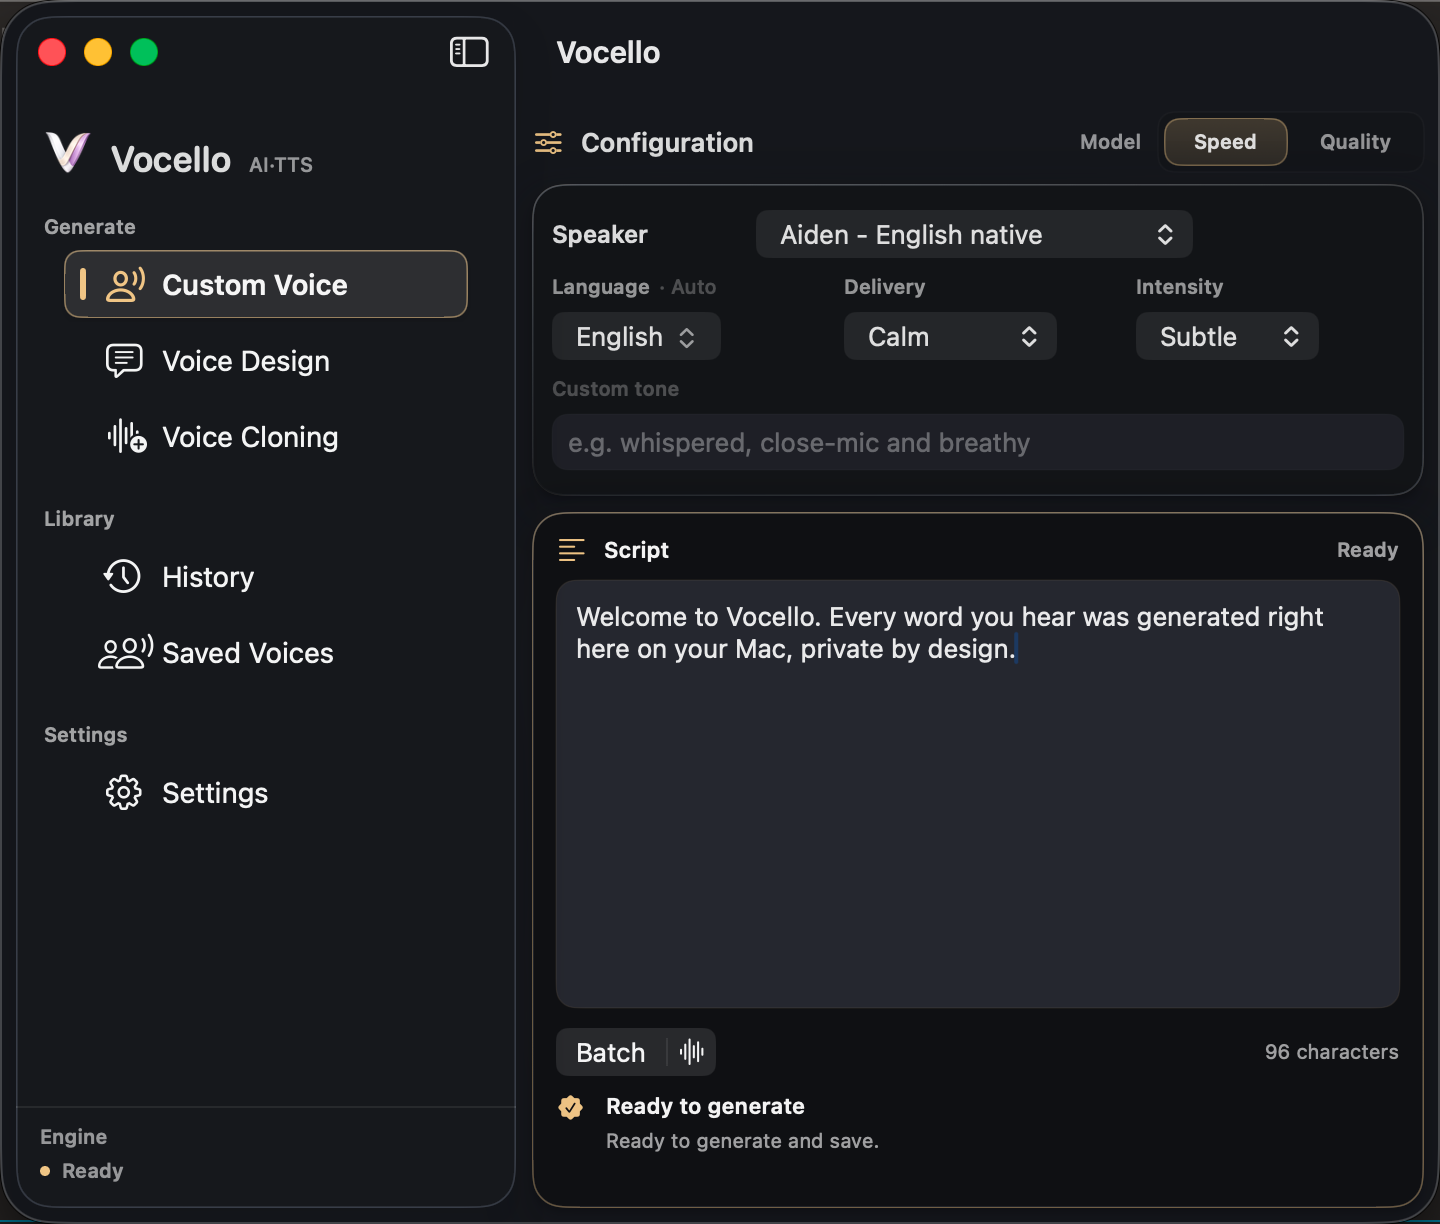
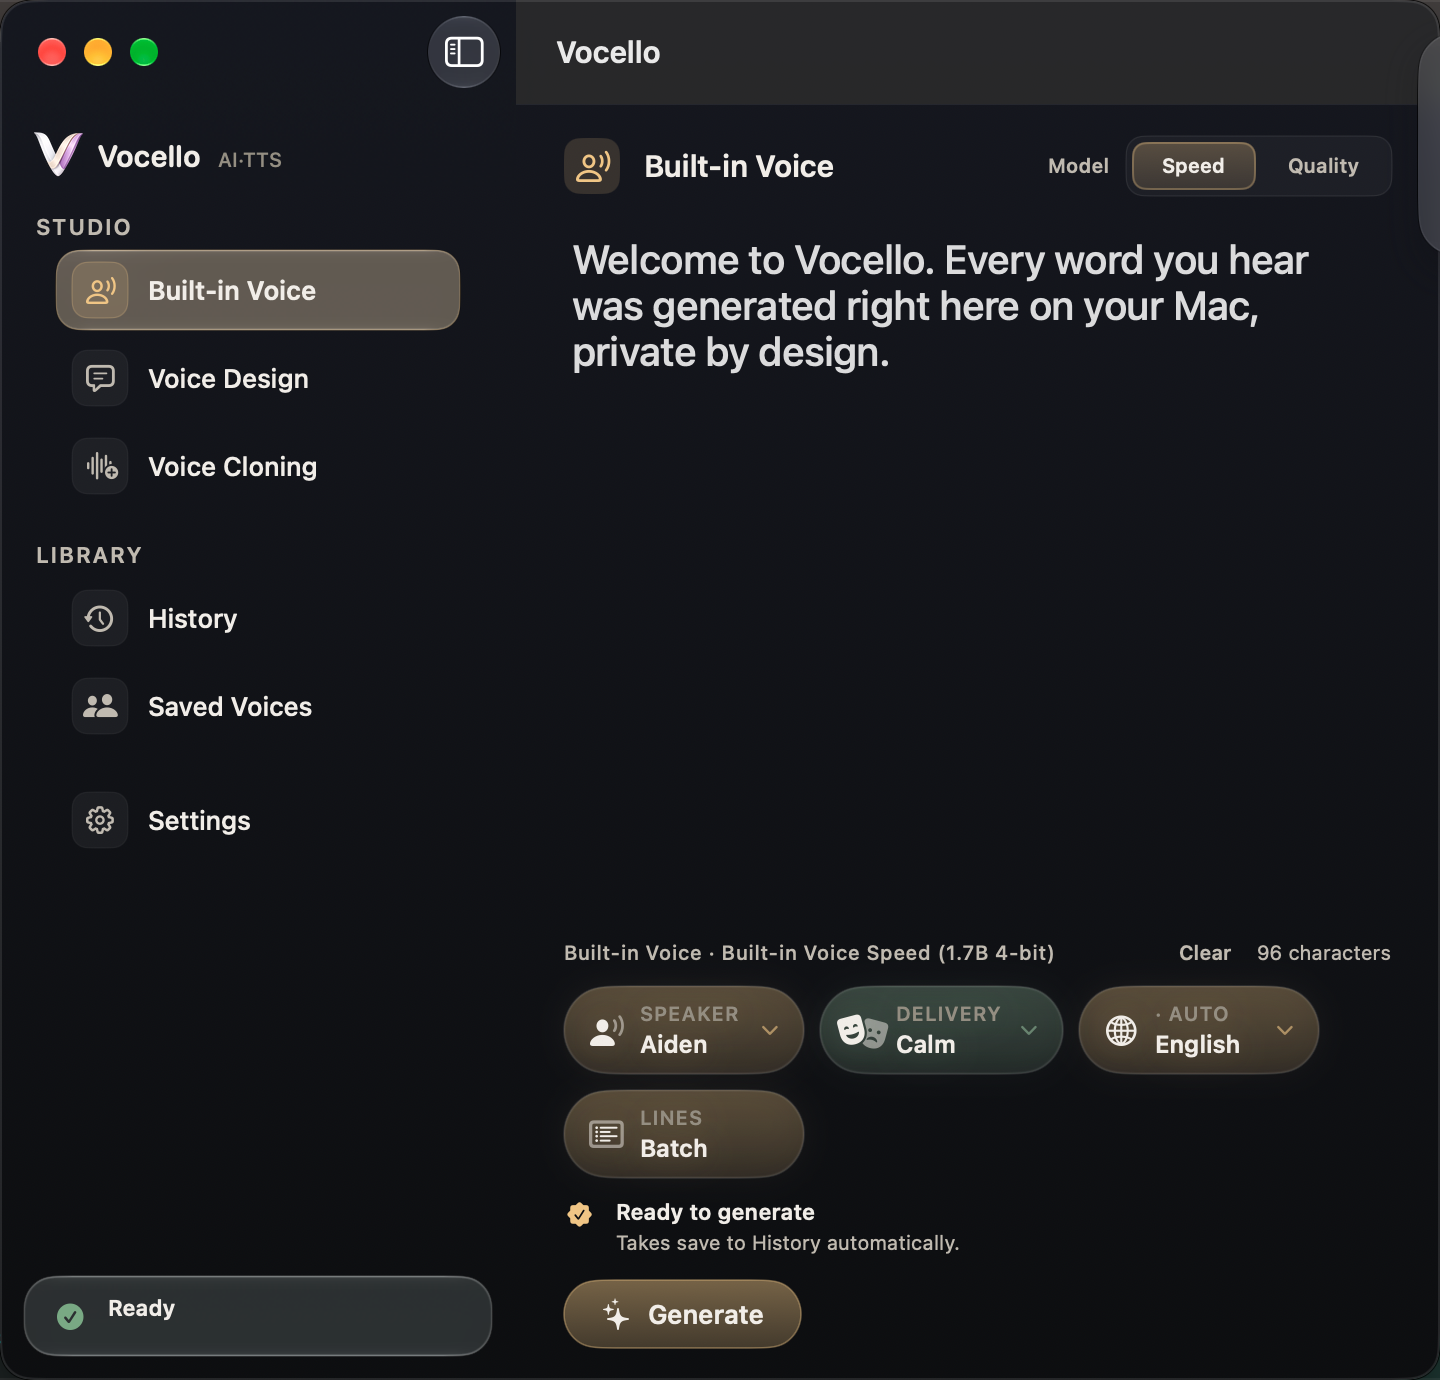
Re-baseline the UI perf thresholds, retake the marketing captures and fix two narrow-window layouts (CONV-18)
config/ui-perf-thresholds.json moves to baseline-v3: medians of three perf
sessions on the converged app after the last legacy screen left (runs
220611-0bb33592, 221935-636488c2, 222752-64610737, nine scenarios each,
no warnings). Ceilings are twice the hitch median and 1.5x the gap median,
never below 1.25x the observed maximum, with floors of 5 ms/s and 40 ms so a
quiet scenario never warns on one frame; warn-only stays.

The marketing capture class gains a Voice Design and Settings capture and
scrolls the marketing voice's row into view before pressing Use (it sorts
last and sat below the fold). The six macOS README and website images are
retaken from the converged app at a 960 pt window, History staged empty
for the run and restored after.

The first capture at the 720 pt window showed two layout defects the lanes
never see at their window size: the Studio setup chips are a fixed-width
HStack, so on a narrow column they pushed the whole canvas past the
viewport and the pinned canvas clipped both edges of the composer and the
chips; they now lay out through MacChipFlow, which wraps a chip that no
longer fits onto the next row (Cloning's two rows included). And the
Settings package rows let the badge keep its width while the tier label
collapsed to one letter; the label now wins and the badge truncates.

macos-release-qa.md gains an attended walk of the converged screens; the
convergence doc records the outcome.
[…]

diff --git a/Tests/VocelloMacUITests/VocelloMacMarketingCaptureUITests.swift b/Tests/VocelloMacUITests/VocelloMacMarketingCaptureUITests.swift
@@ -89,6 +89,9 @@ final class VocelloMacMarketingCaptureUITests: VocelloMacUITestCase {
             VocelloUIWait.exists(useButton, timeout: 20),
             "marketing clone voice must be enrolled before capture (vocello voices enroll)"
         )
+        // The marketing voice sorts last; on the default window it sits below the
+        // fold of the Saved Voices list, and a primary action never auto-scrolls.
+        XCTAssertTrue(VocelloUIScroll.intoView(useButton, in: element("screen_voices")))
         XCTAssertTrue(VocelloUIPrimaryAction.perform(on: useButton, timeout: 20))
         XCTAssertTrue(VocelloUIWait.exists(element("screen_voiceCloning"), timeout: 20))
         XCTAssertTrue(VocelloUIWait.exists(element("voiceCloning_activeReference"), timeout: 20))
@@ -139,5 +142,39 @@ final class VocelloMacMarketingCaptureUITests: VocelloMacUITestCase {
         assertHistoryRows(matching: "Welcome to Vocello", expected: 1)
         assertHistoryRows(matching: "The harbor opens", expected: 1)
         assertHistoryRows(matching: "Some stories are best told", expected: 1)
+    }
+
+    /// Voice Design and Settings captures: an authored brief with its script,
+    /// ready to generate, then the model packages in Settings. Both are
+    /// window captures; no take is generated.
+    func test03_DesignAndSettingsCapture() throws {
+        beginSession()
+        defer { endSession() }
+        navigate(to: .voiceDesign)
+        let brief = element("voiceDesign_voiceDescriptionField")
+        let marketingBrief = "A warm, unhurried narrator in her fifties with a soft Irish lilt, "
+            + "gentle humor, and a clear, even pace."
+        if (brief.value as? String) != marketingBrief {
+            XCTAssertTrue(VocelloUITextEntry.replace(in: brief, with: marketingBrief, timeout: 20))
+        }
+        XCTAssertTrue(VocelloUIWait.value(brief, contains: marketingBrief, timeout: 10))
+        let designScript = "The harbor opens at first light, and the town wakes slowly "
+            + "to the sound of gulls."
+        replaceScript(with: designScript)
+        assertReadyToGenerate(mode: .design)
+        let window = app.windows.firstMatch
+        let designShot = XCTAttachment(screenshot: window.screenshot())
+        designShot.name = "marketing-voice-design"
+        designShot.lifetime = .keepAlways
+        add(designShot)
+
+        navigate(to: .settings)
+        XCTAssertTrue(
+            VocelloUIWait.exists(element("settings_packageStatus_pro_custom_speed"), timeout: 20)
+        )
+        let settingsShot = XCTAttachment(screenshot: window.screenshot())
+        settingsShot.name = "marketing-model-downloads"
+        settingsShot.lifetime = .keepAlways
+        add(settingsShot)
     }
 }

diff --git a/Sources/Views/Studio/MacStudioChips.swift b/Sources/Views/Studio/MacStudioChips.swift
@@ -274,3 +274,60 @@ struct MacStudioBatchChip: View {
         .frame(maxWidth: 160)
     }
 }
+
+/// Lays the setup chips out in rows: a chip that no longer fits the column
+/// starts a new row instead of pushing the column past the viewport (an
+/// `HStack` of pills never compresses, so on a 720 pt window it overflowed and
+/// the pinned canvas clipped both edges of the composer and the chips).
+struct MacChipFlow: Layout {
+    var spacing: CGFloat = 8
+    var rowSpacing: CGFloat = 8
+
+    private struct Row {
+        var indices: [Int] = []
+        var width: CGFloat = 0
+        var height: CGFloat = 0
+    }
+
+    func sizeThatFits(proposal: ProposedViewSize, subviews: Subviews, cache: inout ()) -> CGSize {
+        let width = proposal.width.flatMap { $0.isFinite ? $0 : nil }
+        let rows = arrange(subviews, width: width ?? .infinity)
+        let height = rows.map(\.height).reduce(0, +) + rowSpacing * CGFloat(max(rows.count - 1, 0))
+        let widest = rows.map(\.width).max() ?? 0
+        return CGSize(width: width ?? widest, height: height)
+    }
+
+    func placeSubviews(in bounds: CGRect, proposal: ProposedViewSize, subviews: Subviews, cache: inout ()) {
+        var y = bounds.minY
+        for row in arrange(subviews, width: bounds.width) {
+            var x = bounds.minX
+            for index in row.indices {
+                let size = subviews[index].sizeThatFits(.unspecified)
+                subviews[index].place(
+                    at: CGPoint(x: x, y: y + (row.height - size.height) / 2),
+                    proposal: ProposedViewSize(size)
+                )
+                x += size.width + spacing
+            }
+            y += row.height + rowSpacing
+        }
+    }
+
+    private func arrange(_ subviews: Subviews, width: CGFloat) -> [Row] {
+        var rows: [Row] = []
+        var current = Row()
+        for index in subviews.indices {
+            let size = subviews[index].sizeThatFits(.unspecified)
+            let proposedWidth = current.indices.isEmpty ? size.width : current.width + spacing + size.width
+            if !current.indices.isEmpty, proposedWidth > width {
+                rows.append(current)
+                current = Row()
+            }
+            current.indices.append(index)
+            current.width = current.indices.count == 1 ? size.width : current.width + spacing + size.width
+            current.height = max(current.height, size.height)
+        }
+        if !current.indices.isEmpty { rows.append(current) }
+        return rows
+    }
+}

diff --git a/website/src/sections/Listen.jsx b/website/src/sections/Listen.jsx
@@ -82,8 +82,8 @@ export const Listen = () => {
         <div className="listen-deliveries">
           <div className="vc-label" id="delivery-vocab-label">Delivery presets</div>
           <p className="listen-deliveries-sub">
-            Built-in Voice and Voice Design shape a take with one of ten delivery
-            presets, each at normal or strong intensity.
+            Built-in Voice and Voice Design shape a take with one of eight delivery
+            presets or a delivery you describe in your own words.
           </p>
           <div className="try-chips" role="list" aria-labelledby="delivery-vocab-label">
             {DELIVERIES.map((d) => (
@@ -99,11 +99,11 @@ export const Listen = () => {
           <div className="window">
             <img
               src="assets/screens/delivery-presets.png"
-              alt="The Vocello delivery menu open, listing all ten presets from Neutral to Excited"
+              alt="The Vocello delivery menu open, listing the eight presets, the four distinct deliveries first and the directional hints after them, plus Custom"
             />
           </div>
           <figcaption className="try-shot-caption">
-            All ten presets, each with normal and strong intensity, live in the app.
+            All eight presets and the free-text delivery live in the app.
           </figcaption>
         </figure>
       </div>

diff --git a/Sources/Views/Settings/MacModelRow.swift b/Sources/Views/Settings/MacModelRow.swift
@@ -148,13 +148,17 @@ struct MacModelPackageLine: View {
             HStack(alignment: .center, spacing: 8) {
                 HStack(alignment: .firstTextBaseline, spacing: 6) {
                     // "Speed · 4-bit": the tier plus only the per-row fact.
+                    // The tier label is the row's identity and wins the width;
+                    // on a narrow window the badge truncates before the label
+                    // collapses to one letter.
                     Text(compactVariantLabel)
                         .font(.caption.weight(.semibold))
                         .foregroundStyle(MacTheme.Text.primary)
                         .lineLimit(1)
+                        .fixedSize(horizontal: true, vertical: false)
+                        .layoutPriority(2)
                     packageBadge
                         .lineLimit(1)
-                        .fixedSize(horizontal: true, vertical: false)
                         .accessibilityIdentifier("settings_packageBadge_\(model.id)")
                 }
                 .layoutPriority(1)

diff --git a/Sources/Views/Studio/MacVoiceCloningScreen.swift b/Sources/Views/Studio/MacVoiceCloningScreen.swift
@@ -325,7 +325,7 @@ struct MacVoiceCloningScreen: View {
 
     private var setupChips: some View {
         VStack(alignment: .leading, spacing: 8) {
-            HStack(alignment: .center, spacing: 8) {
+            MacChipFlow(spacing: 8, rowSpacing: 8) {
                 MacStudioChipContainer(accessibilityIdentifier: "voiceCloning_voiceSetup") { referenceChip }
                 MacStudioActionChip(
                     eyebrow: MacInterfaceText.cloningReferenceSection,
@@ -347,7 +347,7 @@ struct MacVoiceCloningScreen: View {
                     bankDeliveryChip(persona)
                 }
             }
-            HStack(alignment: .center, spacing: 8) {
+            MacChipFlow(spacing: 8, rowSpacing: 8) {
                 MacStudioChipContainer(accessibilityIdentifier: "voiceCloning_languageSetup") {
                     MacStudioLanguageChip(
                         selectedLanguage: $draft.selectedLanguage,

diff --git a/Sources/Views/Studio/MacStudioCanvas.swift b/Sources/Views/Studio/MacStudioCanvas.swift
@@ -127,7 +127,7 @@ struct MacStudioCanvas<SetupChips: View, Footer: View>: View {
             VStack(alignment: .leading, spacing: 10) {
                 // Lock voice, delivery and language while a take is in flight
                 // (the request already captured them); re-enabled on complete.
-                HStack(alignment: .center, spacing: 8) {
+                MacChipFlow(spacing: 8, rowSpacing: 8) {
                     setupChips
                 }
                 .disabled(genState.isGenerationActive)

diff --git a/website/src/data/samples.js b/website/src/data/samples.js
@@ -67,9 +67,7 @@ export const DELIVERIES = [
   { label: "Fearful", color: "var(--emotion-fearful)" },
   { label: "Surprised", color: "var(--emotion-surprised)" },
   { label: "Whisper", color: "var(--emotion-whisper)" },
-  { label: "Dramatic", color: "var(--emotion-dramatic)" },
   { label: "Calm", color: "var(--emotion-calm)" },
-  { label: "Excited", color: "var(--emotion-excited)" },
 ];
 
 export const DELIVERY_COLORS = {

diff --git a/docs/reference/macos-release-qa.md b/docs/reference/macos-release-qa.md
@@ -1,10 +1,11 @@
 ---
 status: active
 owner: release-qa
-reviewed: 2026-09-12
+reviewed: 2026-09-15
 summary: The standing macOS release-QA checklist — deterministic gates, the per-candidate smoke step, release-notes and performance-surface obligations, packaging and verification.
 sourceOfTruth:
   - scripts/release.sh
+  - docs/reference/macos-app-guide.md
   - .github/workflows/release.yml
   - scripts/macos_test.sh
   - scripts/cli_package.py
@@ -150,6 +151,35 @@ release-readiness and artifact checks.
    deterministic candidate and the promotion manifest before changing the draft to public. Device
    or model availability can delay public promotion, but never candidate building, signing,
    notarization, attestation, or draft upload.
+
+## Attended walk of the converged screens (per candidate, ten minutes)
+
+Since the macOS app adopted the iOS screens (plan `macos-ios-convergence-2026-09`, closed
+2026-09-15), the smoke lane proves the journeys and this walk catches what a lane does not see:
+copy, spacing and French. Run it on the candidate build with the interface language set to
+French once and to System Default once (Settings, `settings_appLanguage`); the app is dark-only.
+
+1. **Sidebar and status**: brand lockup, Studio and Library sections, Settings last; the inline
+   player card and the status strip under it (`sidebar_backendStatus`, `sidebar_generationStatus`)
+   reflect the engine's load state; ⌘1–⌘6 switch screens.
+2. **Built-in Voice**: composer with the character count, the speaker, delivery, language and seed
+   chips as menus on pills, the readiness line, the Generate CTA in the dock; generate one take and
+   confirm the live card's Cancel, then the completed card's Retry, Save As, Reveal and dismiss.
+3. **Voice Design**: the brief editor above the composer with its starters menu and character
+   count; a completed take offers Save as voice; the saved voice appears in Saved Voices.
+4. **Voice Cloning**: the reference chip lists saved voices (persona rows for emotion banks) with
+   Import, Record and Clear inside; drop an unsupported file and confirm the footer warning; the
+   transcript field, the one-time consent and the readiness line read correctly.
+5. **Batch and long-form**: the Batch chip opens the sheet in line mode; a script over 900
+   characters routes Generate to long form; run a two-line batch, cancel a long-form project and
+   resume it, regenerate one segment; the dock behind the sheet shows the live card.
+6. **History, Saved Voices, Settings**: sort and search in the toolbar, the long-form segments
+   toggle, Save As and Reveal; the enroll and record sheets; the recommended-setup summary, the
+   per-mode Speed and Quality rows with their actions, prefer-speed, variation, the output folder,
+   Application data and clone consent; Cmd+, opens the same screen in its own window.
+
+Anything that reads wrong in French is a catalog fix (`MacInterfaceText` + `Localizable.xcstrings`),
+never a code-side literal; see [`localization.md`](localization.md).
 
 ## CLI distribution and qualification
 

diff --git a/docs/reference/macos-ios-convergence-2026-09.md b/docs/reference/macos-ios-convergence-2026-09.md
@@ -53,3 +53,20 @@ returns (item CONV-20).
 - macOS interface copy stays catalog-owned with French; new strings enter `Localizable.xcstrings`.
 - Model delivery stays macOS-native (`ModelManagerViewModel` over `HuggingFaceDownloader`): the iOS
   catalog carries only the Speed artifacts.
+
+## Outcome (2026-09-15)
+
+The plan completed in one day of commits on `main`, every one shippable and lane-verified. The
+engine runs in-process on the shared `TTSEngineStore` (CONV-01–04, memory lane on the 8 GB Mac);
+the shell, History, Saved Voices, Settings, Built-in Voice, Voice Design and Voice Cloning are the
+iOS screens adapted to macOS under `Sources/Views` (CONV-10–17), and line batch plus long-form run
+on the shared single-take executor and the shared long-form runner behind platform-hooks seams
+(CONV-22). The legacy macOS views, coordinators, executor, theme, layout constants and drafts are
+gone; the macOS accessibility identifiers survived unchanged and the lanes prove it. The perf
+thresholds were re-baselined from three sessions on the converged tree and the marketing captures
+retaken (CONV-18). Two items moved to the release-first plan: CONV-20 re-verifies the frozen iOS
+behavior on the phone (the iOS edits were forwards, seams with iOS defaults and pure splits, each
+verified by the generic device-SDK compile) and CONV-21 decides the toolchain bump. The single
+cost that landed as predicted: push CI pins Xcode 26.6 while the Mac runs Xcode 27, so a
+main-actor call from a nonisolated test override compiled locally and failed on CI until fixed
+forward (ea795cde); the rule is to read CI after every push.

diff --git a/benchmarks/HISTORY.md b/benchmarks/HISTORY.md
@@ -1566,6 +1566,8 @@ trend percentages carry their direction in words.
 | completed (UTC) | run | scope | classification | status | memory | takes | RTF | source | comparison | trend | label |
 |---|---|---|---|---|---|---:|---:|---|---|---|---|
 | 2026-09-15 | [`macos-xcui-perf-20260915-220611-0bb33592`](runs/ui-perf/macos-xcui-perf-20260915-220611-0bb33592.json) | canonical | canonical | passed | not-applicable | 9 | — | `606faa1fe93c` | `98cc9677aeef` | baseline | macos-xcui-perf-20260915-220611-0bb33592 |
+| 2026-09-15 | [`macos-xcui-perf-20260915-221935-636488c2`](runs/ui-perf/macos-xcui-perf-20260915-221935-636488c2.json) | canonical | canonical | passed | not-applicable | 9 | — | `d3737d103657` | `98cc9677aeef` | vs macos-xcui-perf-20260915-220611-0bb33592: compatible | macos-xcui-perf-20260915-221935-636488c2 |
+| 2026-09-15 | [`macos-xcui-perf-20260915-222752-64610737`](runs/ui-perf/macos-xcui-perf-20260915-222752-64610737.json) | canonical | canonical | passed | not-applicable | 9 | — | `d3737d103657` | `98cc9677aeef` | vs macos-xcui-perf-20260915-221935-636488c2: compatible | macos-xcui-perf-20260915-222752-64610737 |
 
 ## ui-perf / macos / mac-mini-m2-8gb / config `b9aa3720228c`
 
